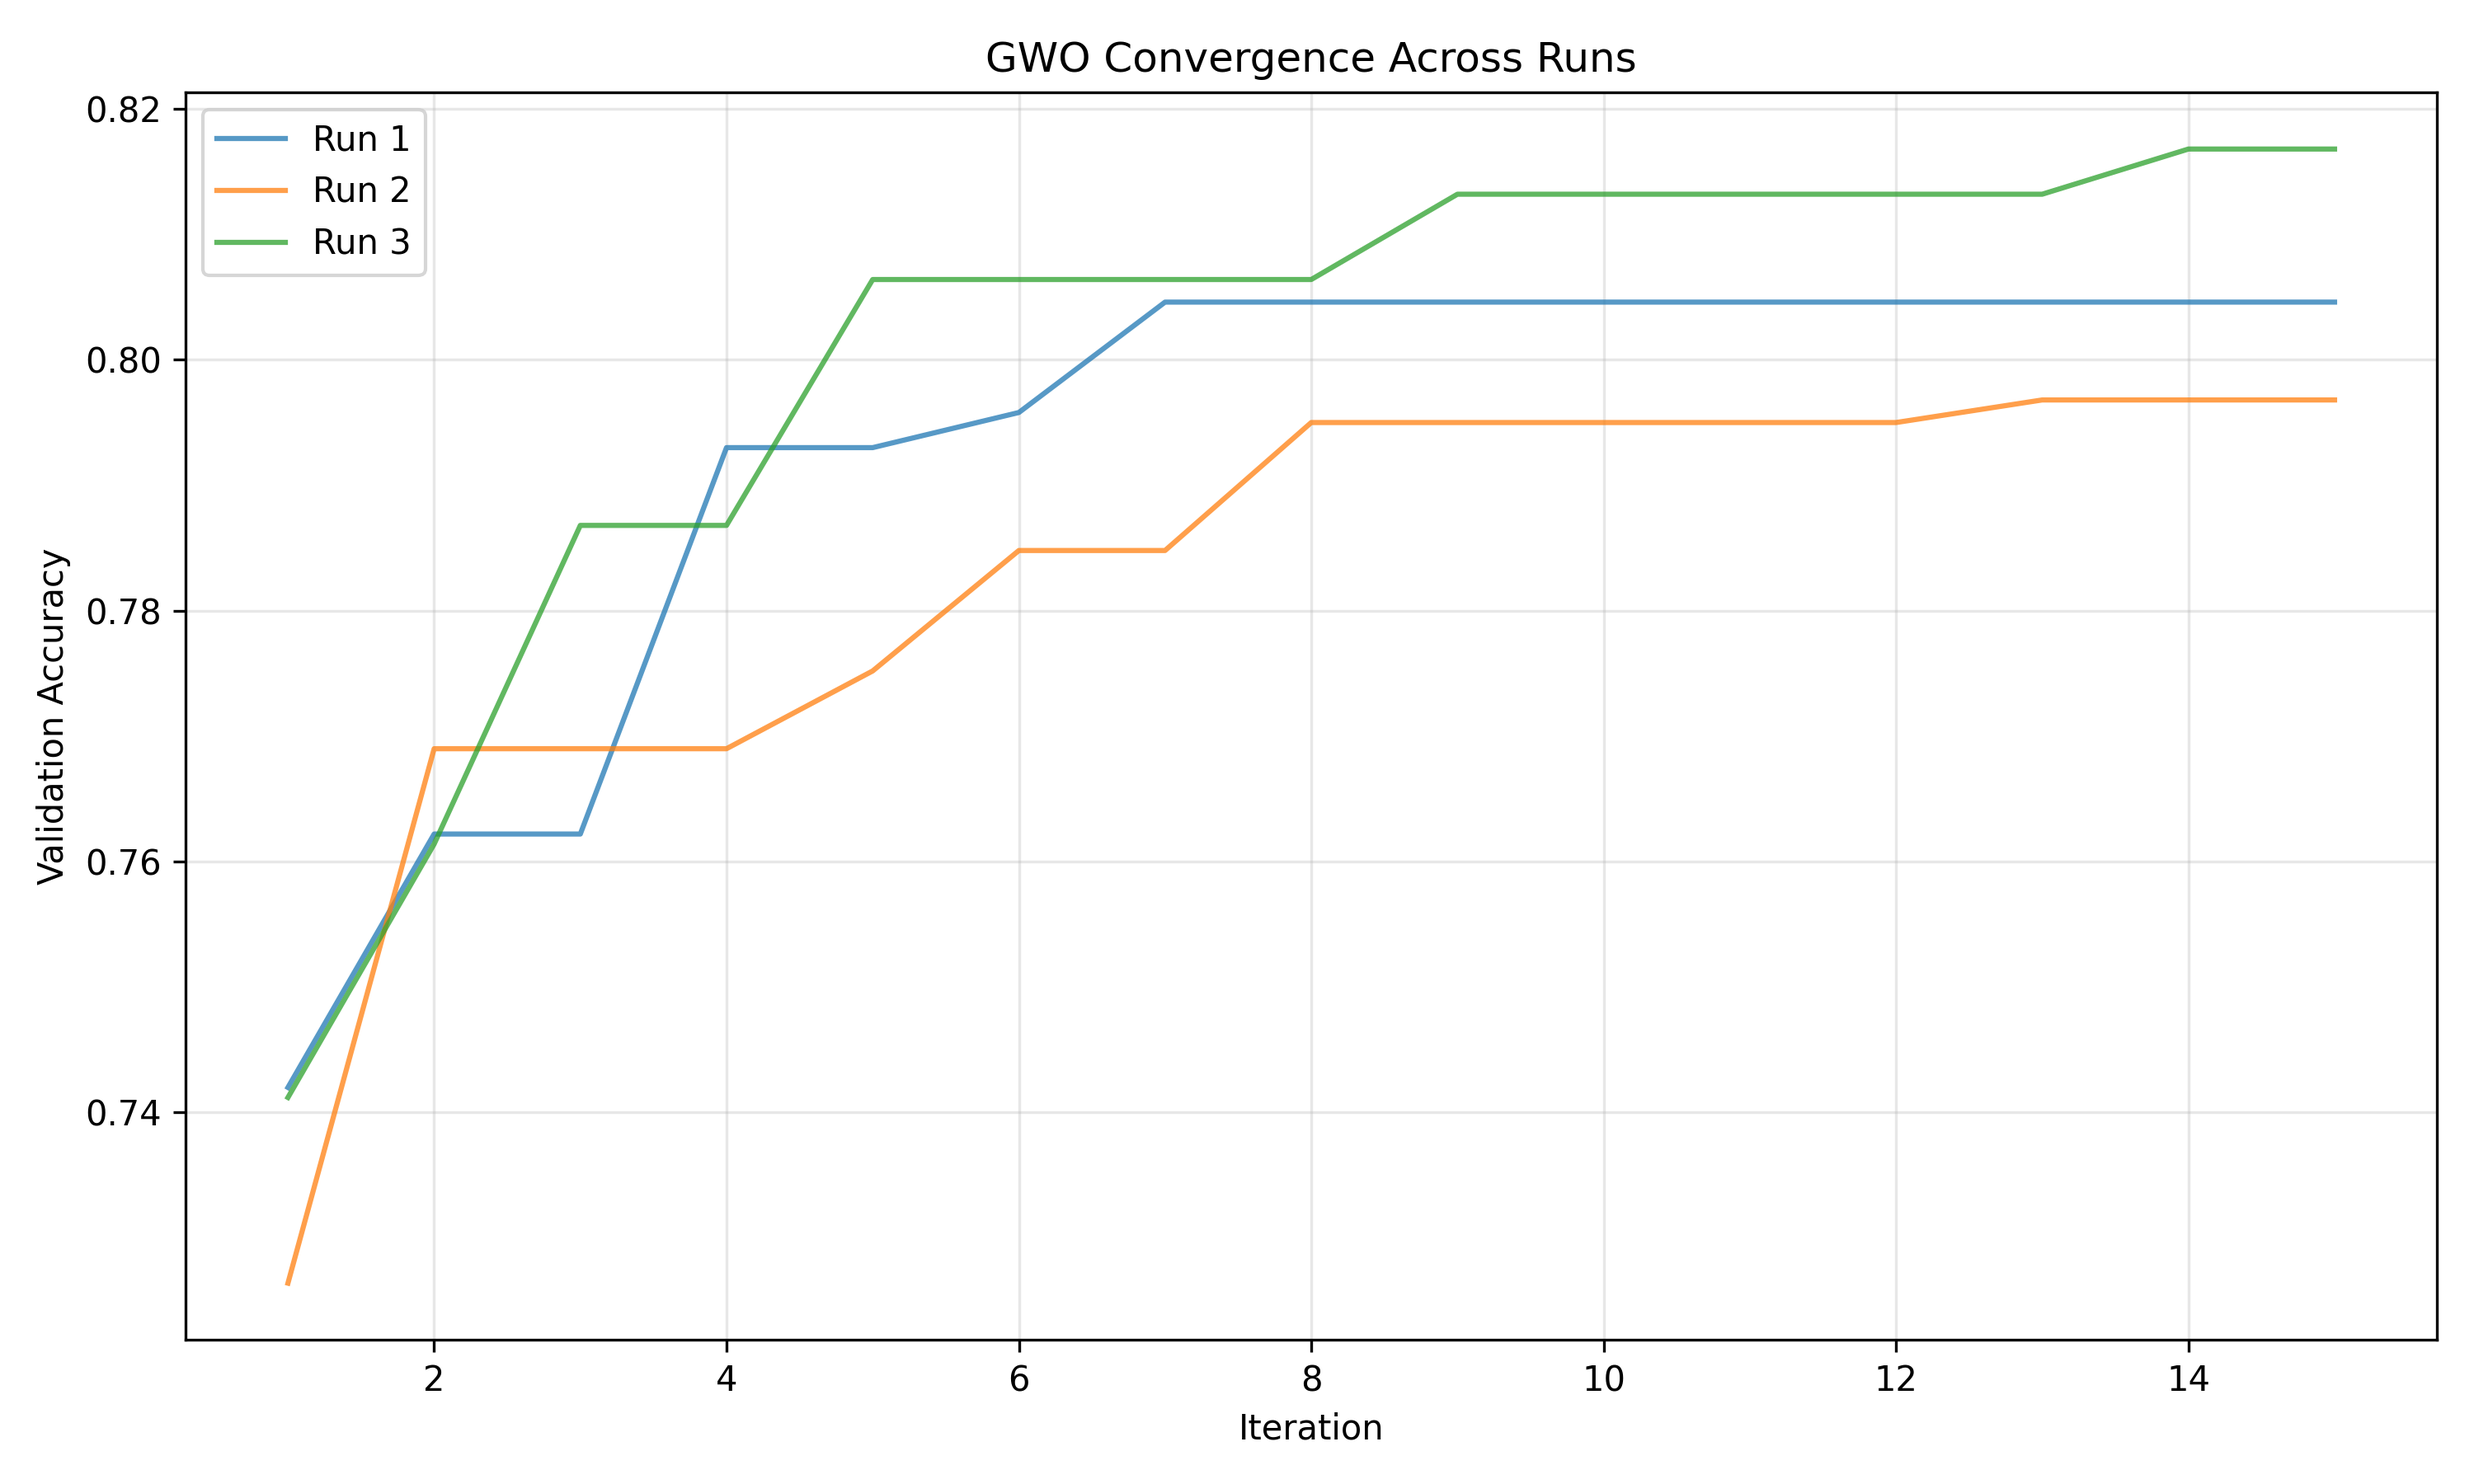
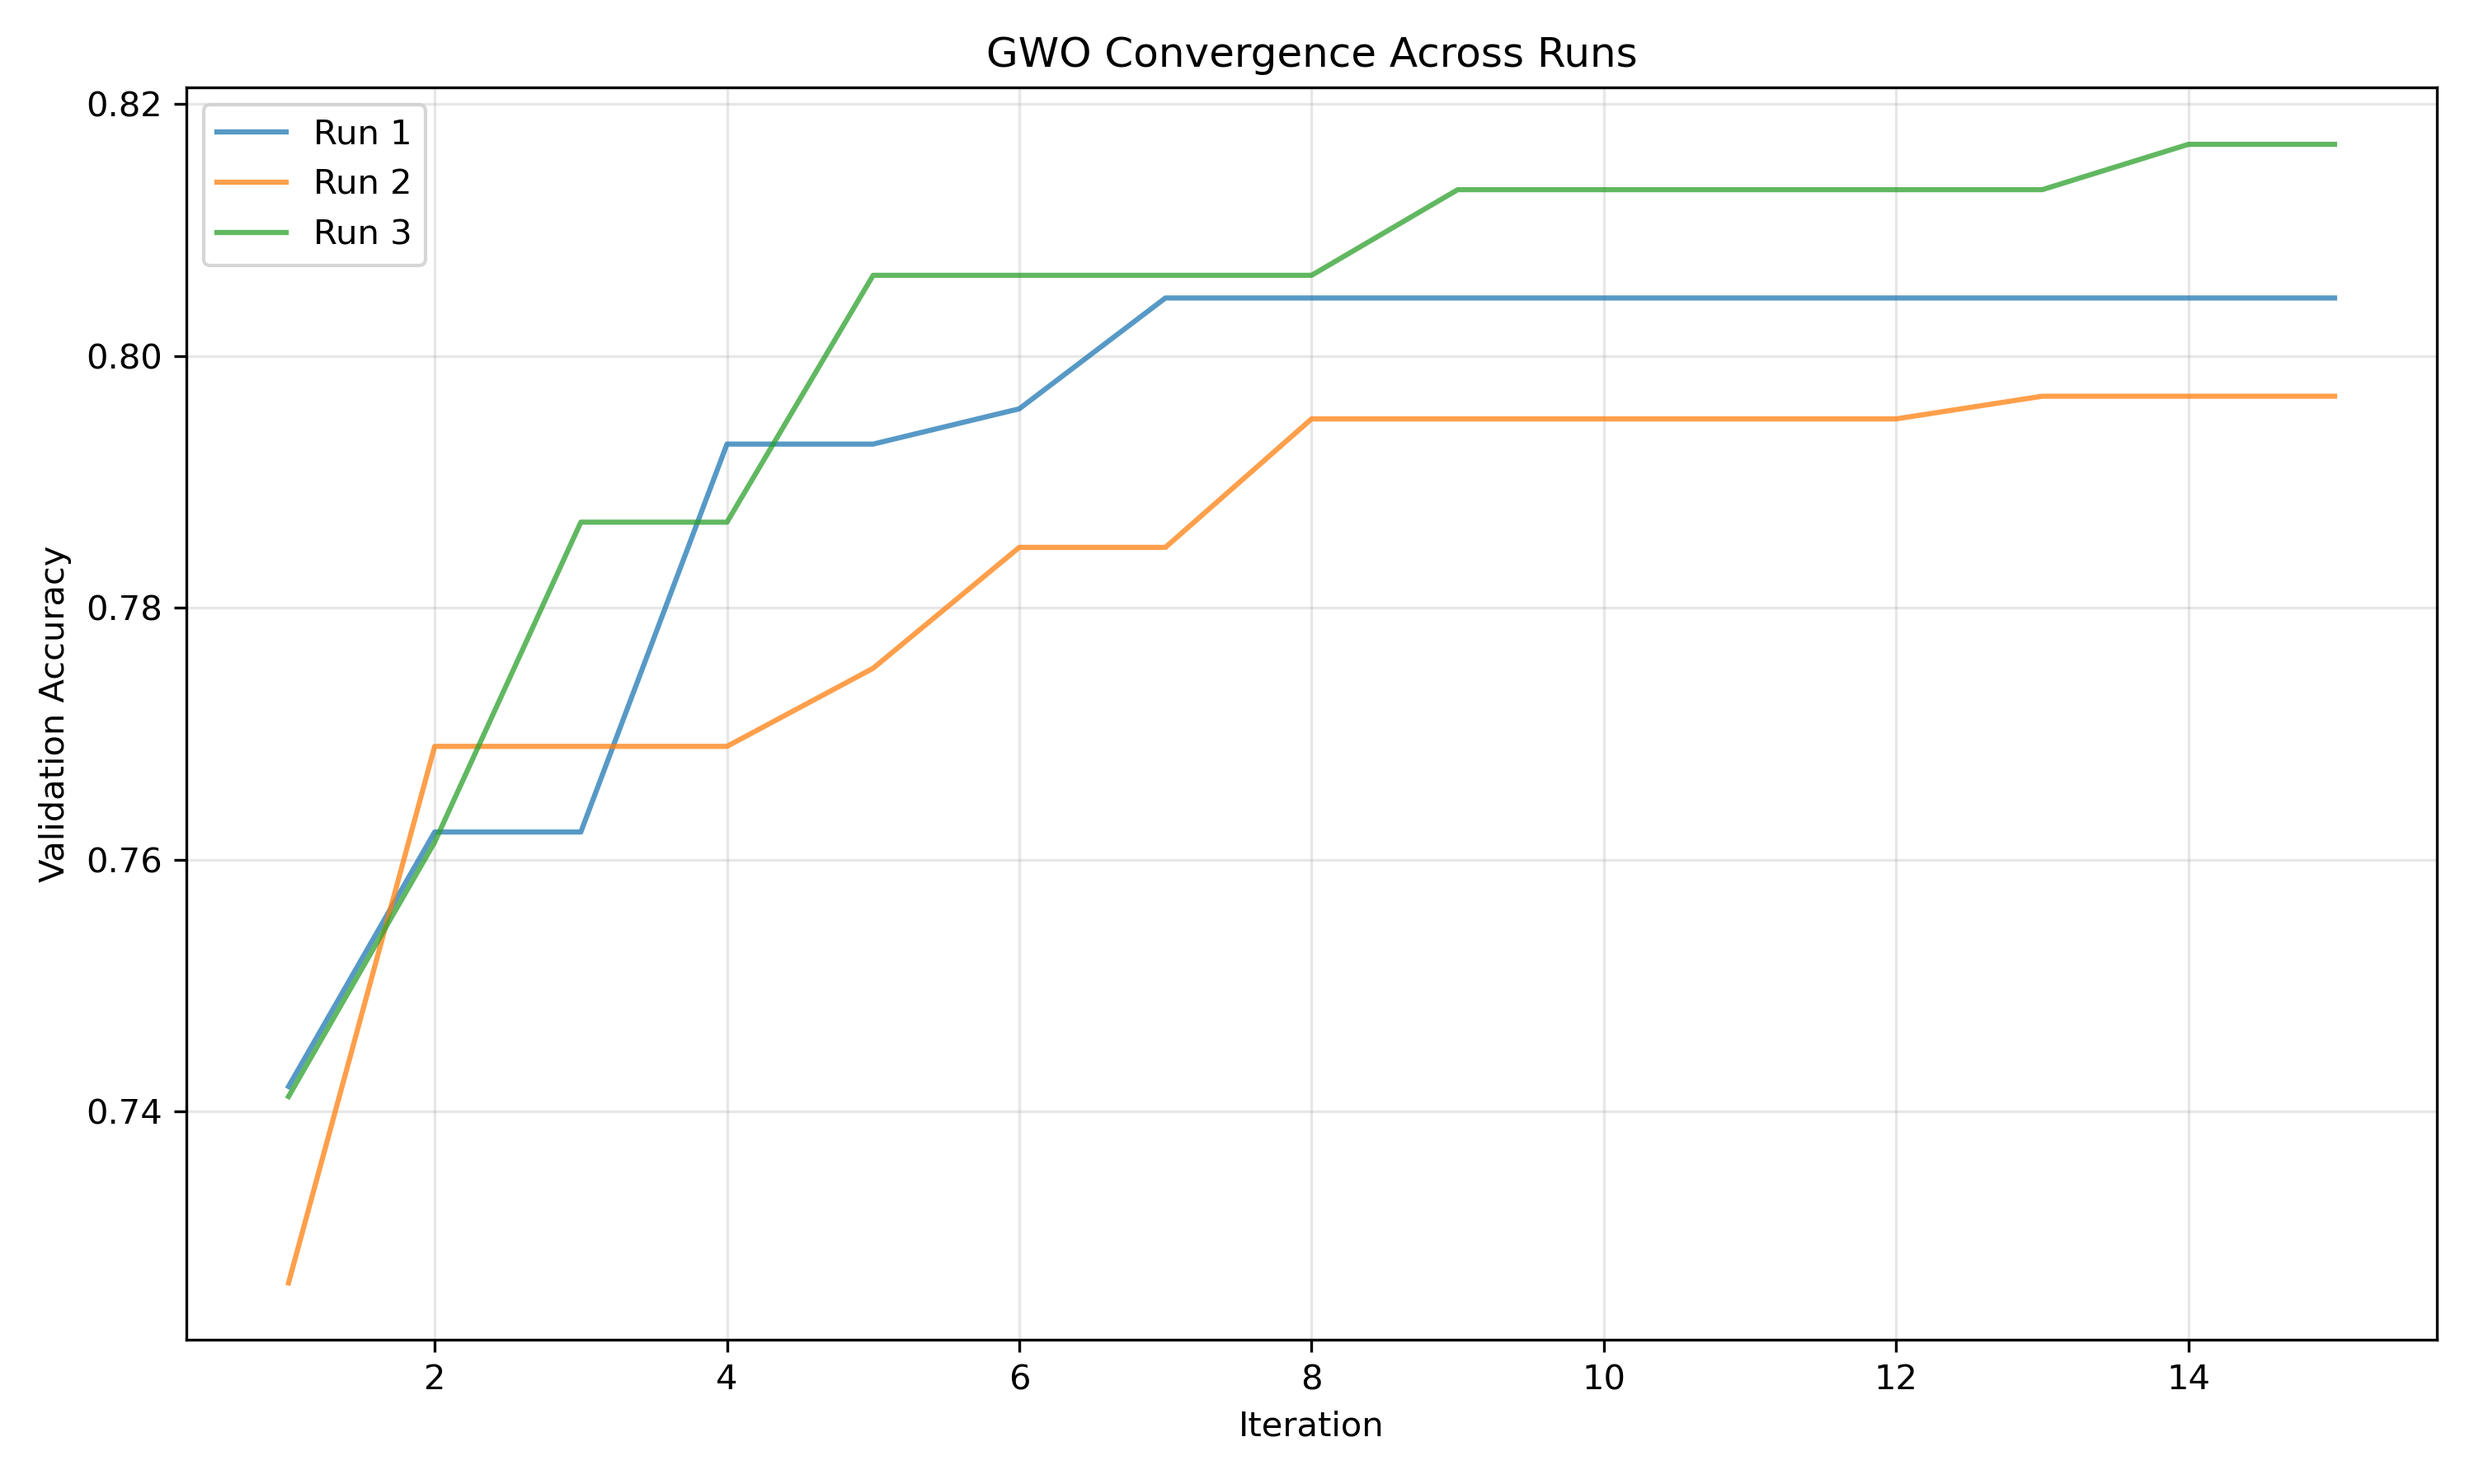
Enhance plotting functionality and add shared color palette for algorithms

diff --git a/research_analysis.py b/research_analysis.py
@@ -5,6 +5,12 @@ import os
 from collections import defaultdict
 from statistics import NormalDist
 
+import matplotlib
+
+from plot_colors import COLOR_MAP
+
+matplotlib.use("Agg")
+import sys
 import matplotlib.pyplot as plt
 import numpy as np
 
@@ -318,11 +324,22 @@ def _write_csv(path, rows, fieldnames):
 def _write_plot(path, figure):
     ensure_dir(os.path.dirname(path))
     figure.tight_layout()
-    figure.savefig(path, dpi=300)
+    abs_path = os.path.abspath(path)
+    # Save to an in-memory buffer then write to disk to avoid Windows open/save issues
+    try:
+        from io import BytesIO
+
+        buf = BytesIO()
+        figure.savefig(buf, format="png", dpi=300)
+        buf.seek(0)
+        with open(abs_path, "wb") as fh:
+            fh.write(buf.getvalue())
+    finally:
+        buf.close()
     plt.close(figure)
 
 
-def _plot_convergence(runs_by_algorithm, final_report_dir):
+def _plot_convergence(runs_by_algorithm, final_report_dir, save_individual_runs=True):
     mean_series = {}
     per_algorithm_all = {}
     for algorithm, runs in runs_by_algorithm.items():
@@ -338,9 +355,14 @@ def _plot_convergence(runs_by_algorithm, final_report_dir):
     if not mean_series:
         return
 
+    # Use shared color map
+    color_map = COLOR_MAP
+
+    # Mean convergence plot: use algorithm colors
     figure, axis = plt.subplots(figsize=(10, 6))
     for algorithm, series in mean_series.items():
-        axis.plot(range(1, len(series) + 1), series, label=f"Mean {algorithm}", linewidth=2.5)
+        color = color_map.get(algorithm, None)
+        axis.plot(range(1, len(series) + 1), series, label=f"Mean {algorithm}", linewidth=2.5, color=color)
     axis.set_xlabel("Iteration")
     axis.set_ylabel("Validation Accuracy")
     axis.set_title("Mean Convergence Comparison")
@@ -348,11 +370,13 @@ def _plot_convergence(runs_by_algorithm, final_report_dir):
     axis.legend()
     _write_plot(os.path.join(final_report_dir, "mean_convergence_comparison.png"), figure)
 
+    # Convergence across runs: per-run curves use the same algorithm color but lighter (more transparent)
     figure, axis = plt.subplots(figsize=(10, 6))
     for algorithm, array in per_algorithm_all.items():
+        color = color_map.get(algorithm, None)
         for run_index, series in enumerate(array, start=1):
-            axis.plot(range(1, len(series) + 1), series, alpha=0.25)
-        axis.plot(range(1, len(mean_series[algorithm]) + 1), mean_series[algorithm], linewidth=2.5, label=algorithm)
+            axis.plot(range(1, len(series) + 1), series, color=color, alpha=0.40)  # burayı değiştir
+        axis.plot(range(1, len(mean_series[algorithm]) + 1), mean_series[algorithm], linewidth=3.5, label=algorithm, color=color)
     axis.set_xlabel("Iteration")
     axis.set_ylabel("Validation Accuracy")
     axis.set_title("Convergence Comparison Across Runs")
@@ -360,16 +384,20 @@ def _plot_convergence(runs_by_algorithm, final_report_dir):
     axis.legend()
     _write_plot(os.path.join(final_report_dir, "convergence_comparison.png"), figure)
 
-    for algorithm, array in per_algorithm_all.items():
-        figure, axis = plt.subplots(figsize=(10, 6))
-        for run_index, series in enumerate(array, start=1):
-            axis.plot(range(1, len(series) + 1), series, alpha=0.75, label=f"Run {run_index}")
-        axis.set_xlabel("Iteration")
-        axis.set_ylabel("Validation Accuracy")
-        axis.set_title(f"{algorithm} Convergence Across Runs")
-        axis.grid(True, alpha=0.3)
-        axis.legend()
-        _write_plot(os.path.join(final_report_dir, f"{algorithm}_convergence_runs.png"), figure)
+    if save_individual_runs:
+        for algorithm, array in per_algorithm_all.items():
+            figure, axis = plt.subplots(figsize=(10, 6))
+            cmap = plt.get_cmap("tab10")
+            for run_index, series in enumerate(array, start=1):
+                # Use a distinct color per run from a qualitative colormap (not the shared COLOR_MAP)
+                color = cmap((run_index - 1) % cmap.N)
+                axis.plot(range(1, len(series) + 1), series, alpha=0.75, label=f"Run {run_index}", color=color)
+            axis.set_xlabel("Iteration")
+            axis.set_ylabel("Validation Accuracy")
+            axis.set_title(f"{algorithm} Convergence Across Runs")
+            axis.grid(True, alpha=0.3)
+            axis.legend()
+            _write_plot(os.path.join(final_report_dir, f"{algorithm}_convergence_runs.png"), figure)
 
 
 def _plot_diversity(runs_by_algorithm, final_report_dir):
@@ -389,7 +417,8 @@ def _plot_diversity(runs_by_algorithm, final_report_dir):
         padded = [history + [history[-1]] * (max_len - len(history)) for history in histories]
         array = np.asarray(padded, dtype=float)
         mean_series = array.mean(axis=0)
-        axis.plot(range(1, len(mean_series) + 1), mean_series, linewidth=2.5, label=algorithm)
+        color = COLOR_MAP.get(algorithm, None)
+        axis.plot(range(1, len(mean_series) + 1), mean_series, linewidth=2.5, label=algorithm, color=color)
     axis.set_xlabel("Iteration")
     axis.set_ylabel("Population Diversity")
     axis.set_title("Diversity Comparison")
@@ -646,3 +675,22 @@ def build_final_report(results_dir, dataset, config=None):
         "friedman_results_path": os.path.join(final_report_dir, "friedman_results.json"),
         "wilcoxon_results_path": os.path.join(final_report_dir, "wilcoxon_results.csv"),
     }
+
+
+if __name__ == "__main__":
+    # Make running the file in editors (Run File) produce the final report.
+    script_dir = os.path.dirname(os.path.abspath(__file__))
+    results_dir = os.path.join(script_dir, "results")
+    dataset = "cifar10"
+    print("[research_analysis] Running as script")
+    print("[research_analysis] Python:", sys.executable)
+    print("[research_analysis] CWD:", os.getcwd())
+    print("[research_analysis] results_dir:", results_dir)
+    print("[research_analysis] dataset:", dataset)
+    # Only regenerate convergence/diversity plots when running the file directly
+    runs = _collect_runs(results_dir, dataset)
+    final_report_dir = os.path.join(results_dir, dataset.upper(), "final_report")
+    ensure_dir(final_report_dir)
+    _plot_convergence(runs, final_report_dir, save_individual_runs=False)
+    _plot_diversity(runs, final_report_dir)
+    print(f"[research_analysis] Updated plots in {final_report_dir}")

diff --git a/analyze_results.py b/analyze_results.py
@@ -4,6 +4,7 @@ import os
 from collections import defaultdict
 
 import matplotlib.pyplot as plt
+from plot_colors import COLOR_MAP, COLOR_SEQUENCE
 import numpy as np
 
 from utils import ensure_dir, read_json, write_json
@@ -90,7 +91,7 @@ def plot_metric(metric_map, key, ylabel, out_path):
     algorithms = list(metric_map.keys())
     values = [metric_map[name][key] for name in algorithms]
     plt.figure(figsize=(8, 4))
-    plt.bar(algorithms, values, color=["#264653", "#2a9d8f", "#e9c46a", "#f4a261"])
+    plt.bar(algorithms, values, color=COLOR_SEQUENCE)
     plt.ylabel(ylabel)
     plt.tight_layout()
     plt.savefig(out_path, dpi=300)
@@ -185,7 +186,8 @@ def main():
     if convergence_summary:
         plt.figure(figsize=(9, 5))
         for algorithm, series in convergence_summary.items():
-            plt.plot(range(1, len(series) + 1), series, label=algorithm)
+            color = COLOR_MAP.get(algorithm)
+            plt.plot(range(1, len(series) + 1), series, label=algorithm, color=color)
         plt.xlabel("Iteration")
         plt.ylabel("Mean Global Best Fitness")
         plt.legend()

diff --git a/regenerate_plots.py b/regenerate_plots.py
@@ -1,0 +1,16 @@
+import os
+from research_analysis import _collect_runs, _plot_convergence, _plot_diversity
+
+script_dir = os.path.dirname(os.path.abspath(__file__))
+results_dir = os.path.join(script_dir, "results")
+
+runs = _collect_runs(results_dir, "cifar10")
+final_report_dir = os.path.join(results_dir, "CIFAR10", "final_report")
+
+os.makedirs(final_report_dir, exist_ok=True)
+
+# skip individual per-algorithm plots to avoid intermittent save issues
+_plot_convergence(runs, final_report_dir, save_individual_runs=False)
+_plot_diversity(runs, final_report_dir)
+
+print("Updated plots in:", final_report_dir)

diff --git a/plot_colors.py b/plot_colors.py
@@ -1,0 +1,11 @@
+# Shared color palette for algorithms
+# Chosen: blue, green, red, orange
+COLOR_MAP = {
+    "GWO": "#1f77b4",  # blue
+    "PSO": "#2ca02c",  # green
+    "WOA": "#d62728",  # red
+    "RAO": "#8927af",  # orange
+}
+
+# Fallback sequence (ordered) if needed
+COLOR_SEQUENCE = [COLOR_MAP[alg] for alg in ["GWO", "PSO", "WOA", "RAO"]]
